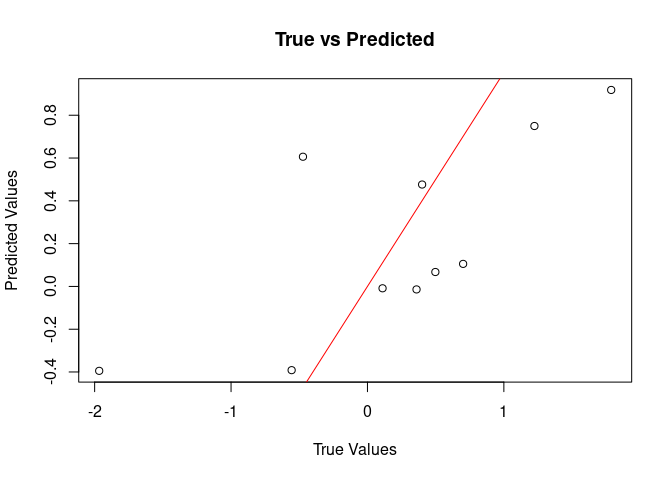
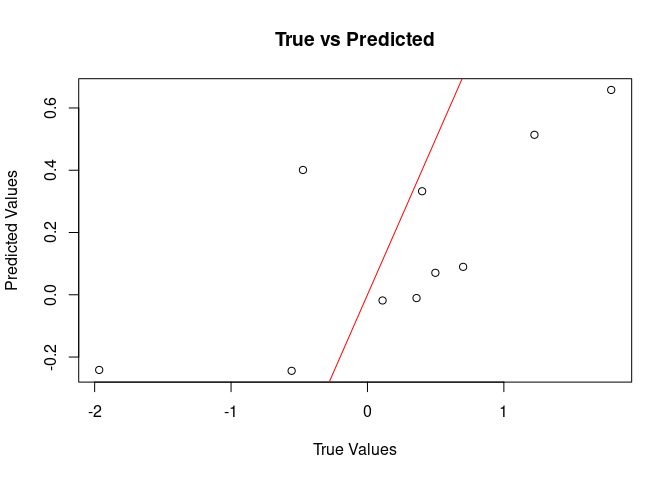
improved documentation

diff --git a/README.md b/README.md
@@ -42,17 +42,16 @@ if (!requireNamespace("devtools", quietly = TRUE)) {
 
 # Install bnns
 devtools::install_github("swarnendu-stat/bnns")
-#> Using GitHub PAT from the git credential store.
 #> Downloading GitHub repo swarnendu-stat/bnns@HEAD
 #> 
 #> ── R CMD build ─────────────────────────────────────────────────────────────────
-#> * checking for file ‘/tmp/Rtmps6cvwK/remotes1e2c655731f5/swarnendu-stat-bnns-702d66b/DESCRIPTION’ ... OK
+#> * checking for file ‘/tmp/RtmpgvV5Q7/remotes48b44bfa1ebc/swarnendu-stat-bnns-0016962/DESCRIPTION’ ... OK
 #> * preparing ‘bnns’:
 #> * checking DESCRIPTION meta-information ... OK
 #> * checking for LF line-endings in source and make files and shell scripts
 #> * checking for empty or unneeded directories
 #> * building ‘bnns_0.0.0.9000.tar.gz’
-#> Installing package into '/tmp/RtmpxVcMwf/temp_libpath11ad5b82055f'
+#> Installing package into '/tmp/RtmpW93M6f/temp_libpath307148b7ac00'
 #> (as 'lib' is unspecified)
 ```
 
@@ -75,7 +74,7 @@ To fit a Bayesian Neural Network:
 library(bnns)
 
 model <- bnns(y ~ -1 + x1 + x2, data = df, L = 2, nodes = c(10, 8), act_fn = c(2, 3), out_act_fn = 1,
-              iter = 2e2, warmup = 1e2, chains = 1, seed = 123)
+              iter = 1e2, warmup = 5e1, chains = 1, seed = 123)
 #> 
 #> TRANSLATING MODEL '' FROM Stan CODE TO C++ CODE NOW.
 #> OS: x86_64, linux-gnu; rstan: 2.32.6; Rcpp: 1.0.13.1; inline: 0.3.20 
@@ -101,7 +100,7 @@ model <- bnns(y ~ -1 + x1 + x2, data = df, L = 2, nodes = c(10, 8), act_fn = c(2
 #>   15 : #endif
 #>   16 : // Code generated by stanc v2.32.2
 #>   17 : #include <stan/model/model_header.hpp>
-#>   18 : namespace model1e2c7d5e21d6__namespace {
+#>   18 : namespace model48b46b43cf8b__namespace {
 #>   19 : using stan::model::model_base_crtp;
 #>   20 : using namespace stan::math;
 #>   21 : stan::math::profile_map profiles__;
@@ -172,7 +171,7 @@ model <- bnns(y ~ -1 + x1 + x2, data = df, L = 2, nodes = c(10, 8), act_fn = c(2
 #>   86 :   " (in 'anon_model', line 23, column 9 to column 10)",
 #>   87 :   " (in 'anon_model', line 23, column 12 to column 20)",
 #>   88 :   " (in 'anon_model', line 24, column 9 to column 10)"};
-#>   89 : class model1e2c7d5e21d6_ final : public model_base_crtp<model1e2c7d5e21d6_> {
+#>   89 : class model48b46b43cf8b_ final : public model_base_crtp<model48b46b43cf8b_> {
 #>   90 : private:
 #>   91 :   int n;
 #>   92 :   int m;
@@ -194,8 +193,8 @@ model <- bnns(y ~ -1 + x1 + x2, data = df, L = 2, nodes = c(10, 8), act_fn = c(2
 #>  108 :   Eigen::Map<Eigen::Matrix<double,-1,-1>> X{nullptr, 0, 0};
 #>  109 :   Eigen::Map<Eigen::Matrix<double,-1,1>> y{nullptr, 0};
 #>  110 : public:
-#>  111 :   ~model1e2c7d5e21d6_() {}
-#>  112 :   model1e2c7d5e21d6_(stan::io::var_context& context__, unsigned int
+#>  111 :   ~model48b46b43cf8b_() {}
+#>  112 :   model48b46b43cf8b_(stan::io::var_context& context__, unsigned int
 #>  113 :                      random_seed__ = 0, std::ostream* pstream__ = nullptr)
 #>  114 :       : model_base_crtp(0) {
 #>  115 :     int current_statement__ = 0;
@@ -205,7 +204,7 @@ model <- bnns(y ~ -1 + x1 + x2, data = df, L = 2, nodes = c(10, 8), act_fn = c(2
 #>  119 :     // suppress unused var warning
 #>  120 :     (void) base_rng__;
 #>  121 :     static constexpr const char* function__ =
-#>  122 :       "model1e2c7d5e21d6__namespace::model1e2c7d5e21d6_";
+#>  122 :       "model48b46b43cf8b__namespace::model48b46b43cf8b_";
 #>  123 :     // suppress unused var warning
 #>  124 :     (void) function__;
 #>  125 :     local_scalar_t__ DUMMY_VAR__(std::numeric_limits<double>::quiet_NaN());
@@ -400,7 +399,7 @@ model <- bnns(y ~ -1 + x1 + x2, data = df, L = 2, nodes = c(10, 8), act_fn = c(2
 #>  314 :       b2_1dim__ + w_out_1dim__ + 1 + 1;
 #>  315 :   }
 #>  316 :   inline std::string model_name() const final {
-#>  317 :     return "model1e2c7d5e21d6_";
+#>  317 :     return "model48b46b43cf8b_";
 #>  318 :   }
 #>  319 :   inline std::vector<std::string> model_compile_info() const noexcept {
 #>  320 :     return std::vector<std::string>{"stanc_version = stanc3 v2.32.2",
@@ -422,7 +421,7 @@ model <- bnns(y ~ -1 + x1 + x2, data = df, L = 2, nodes = c(10, 8), act_fn = c(2
 #>  336 :     // suppress unused var warning
 #>  337 :     (void) DUMMY_VAR__;
 #>  338 :     static constexpr const char* function__ =
-#>  339 :       "model1e2c7d5e21d6__namespace::log_prob";
+#>  339 :       "model48b46b43cf8b__namespace::log_prob";
 #>  340 :     // suppress unused var warning
 #>  341 :     (void) function__;
 #>  342 :     try {
@@ -610,7 +609,7 @@ model <- bnns(y ~ -1 + x1 + x2, data = df, L = 2, nodes = c(10, 8), act_fn = c(2
 #>  524 :     (void) DUMMY_VAR__;
 #>  525 :     constexpr bool jacobian__ = false;
 #>  526 :     static constexpr const char* function__ =
-#>  527 :       "model1e2c7d5e21d6__namespace::write_array";
+#>  527 :       "model48b46b43cf8b__namespace::write_array";
 #>  528 :     // suppress unused var warning
 #>  529 :     (void) function__;
 #>  530 :     try {
@@ -1253,7 +1252,7 @@ model <- bnns(y ~ -1 + x1 + x2, data = df, L = 2, nodes = c(10, 8), act_fn = c(2
 #> 1167 :   }
 #> 1168 : };
 #> 1169 : }
-#> 1170 : using stan_model = model1e2c7d5e21d6__namespace::model1e2c7d5e21d6_;
+#> 1170 : using stan_model = model48b46b43cf8b__namespace::model48b46b43cf8b_;
 #> 1171 : #ifndef USING_R
 #> 1172 : // Boilerplate
 #> 1173 : stan::model::model_base&
@@ -1263,14 +1262,14 @@ model <- bnns(y ~ -1 + x1 + x2, data = df, L = 2, nodes = c(10, 8), act_fn = c(2
 #> 1177 :   return *m;
 #> 1178 : }
 #> 1179 : stan::math::profile_map& get_stan_profile_data() {
-#> 1180 :   return model1e2c7d5e21d6__namespace::profiles__;
+#> 1180 :   return model48b46b43cf8b__namespace::profiles__;
 #> 1181 : }
 #> 1182 : #endif
 #> 1183 : #endif
 #> 1184 : 
-#> 1185 : RCPP_MODULE(stan_fit4model1e2c7d5e21d6__mod) {
+#> 1185 : RCPP_MODULE(stan_fit4model48b46b43cf8b__mod) {
 #> 1186 :   class_<rstan::stan_fit<stan_model, boost::random::ecuyer1988> >(
-#> 1187 :       "stan_fit4model1e2c7d5e21d6_")
+#> 1187 :       "stan_fit4model48b46b43cf8b_")
 #> 1188 : 
 #> 1189 :       .constructor<SEXP, SEXP, SEXP>()
 #> 1190 : 
@@ -1329,11 +1328,11 @@ model <- bnns(y ~ -1 + x1 + x2, data = df, L = 2, nodes = c(10, 8), act_fn = c(2
 #> 1243 : 
 #> 1244 : // declarations
 #> 1245 : extern "C" {
-#> 1246 : SEXP file1e2c6a949e8b( ) ;
+#> 1246 : SEXP file48b451d039f9( ) ;
 #> 1247 : }
 #> 1248 : 
 #> 1249 : // definition
-#> 1250 : SEXP file1e2c6a949e8b() {
+#> 1250 : SEXP file48b451d039f9() {
 #> 1251 :  return Rcpp::wrap("anon_model");
 #> 1252 : }
 #> 
@@ -1352,7 +1351,7 @@ Summarize the fitted model:
 summary(model)
 #> Call:
 #> bnns.default(formula = y ~ -1 + x1 + x2, data = df, L = 2, nodes = c(10, 
-#>     8), act_fn = c(2, 3), out_act_fn = 1, iter = 200, warmup = 100, 
+#>     8), act_fn = c(2, 3), out_act_fn = 1, iter = 100, warmup = 50, 
 #>     chains = 1, seed = 123)
 #> 
 #> Data Summary:
@@ -1366,38 +1365,38 @@ summary(model)
 #> Output activation function: 1 
 #> 
 #> Posterior Summary (Key Parameters):
-#>                  mean    se_mean        sd       2.5%        25%         50%
-#> w_out[1] -0.162133579 0.07772327 1.0991730 -2.1116312 -0.9390165 -0.03503437
-#> w_out[2]  0.021418667 0.07437495 0.9896028 -2.1611520 -0.6301115  0.06866878
-#> w_out[3] -0.002041538 0.09523759 1.1020433 -2.0465230 -0.8329012  0.04072538
-#> w_out[4] -0.091509264 0.10415390 0.9905132 -2.2855084 -0.7830352  0.03058487
-#> w_out[5] -0.126991909 0.12060092 1.0728276 -1.9425644 -0.8530244 -0.35810172
-#> w_out[6]  0.183296279 0.10112087 0.9626945 -1.5855053 -0.5166333  0.12032066
-#> w_out[7]  0.122926494 0.10005766 0.9263347 -1.5887060 -0.4925761  0.18989083
-#> w_out[8]  0.026961513 0.10391497 1.0235879 -2.1473055 -0.6427260  0.09473320
-#> b_out    -0.004724008 0.08919397 0.9390003 -1.7917247 -0.6540982  0.03236448
-#> sigma     0.931829325 0.03158302 0.2479854  0.5805703  0.7514319  0.86695836
-#>                75%    97.5%     n_eff      Rhat
-#> w_out[1] 0.5794187 2.234899 200.00000 0.9929056
-#> w_out[2] 0.5889855 1.849656 177.03880 0.9965019
-#> w_out[3] 0.8200063 1.954492 133.89998 0.9980318
-#> w_out[4] 0.6982179 1.375559  90.44186 0.9938695
-#> w_out[5] 0.6756810 2.170041  79.13319 0.9901413
-#> w_out[6] 0.9867396 1.857302  90.63490 1.0221722
-#> w_out[7] 0.7441406 1.637340  85.71073 1.0042971
-#> w_out[8] 0.7741426 1.921367  97.02732 0.9911107
-#> b_out    0.5800429 1.731874 110.83081 0.9937312
-#> sigma    1.0919060 1.500315  61.65167 1.0428953
+#>                 mean    se_mean        sd       2.5%        25%         50%
+#> w_out[1] -0.02324795 0.13129860 1.0762213 -1.6600031 -1.0103546 -0.18735995
+#> w_out[2]  0.07270977 0.14981448 0.8350675 -1.3137496 -0.4830793 -0.06217806
+#> w_out[3]  0.11283857 0.11428048 0.7623686 -1.0485410 -0.5333280  0.08261137
+#> w_out[4]  0.20054171 0.11334737 0.7588289 -1.2580135 -0.2220071  0.16581899
+#> w_out[5] -0.06208152 0.16932869 1.0527341 -1.8664903 -0.9103519  0.06347047
+#> w_out[6]  0.30302264 0.15389760 1.0756999 -1.6702569 -0.4103843  0.19989870
+#> w_out[7]  0.30786594 0.11187634 0.8229034 -1.0878378 -0.3385778  0.32939318
+#> w_out[8] -0.15144312 0.12836466 0.9245842 -1.7927356 -0.6969301 -0.20455107
+#> b_out     0.24797547 0.13604812 0.9077106 -1.5935206 -0.4190687  0.23167117
+#> sigma     0.95245930 0.04625639 0.3037826  0.5781807  0.7346287  0.92544357
+#>                75%    97.5%    n_eff      Rhat
+#> w_out[1] 0.7441097 1.840549 67.18664 0.9865655
+#> w_out[2] 0.7052703 1.624580 31.06960 0.9923414
+#> w_out[3] 0.7150443 1.618166 44.50265 1.0045883
+#> w_out[4] 0.7419605 1.455819 44.81927 0.9798358
+#> w_out[5] 0.6306202 1.720851 38.65238 0.9824005
+#> w_out[6] 1.0225610 2.465771 48.85607 1.0054149
+#> w_out[7] 0.9952039 1.614277 54.10299 0.9812693
+#> w_out[8] 0.3860326 1.242786 51.88024 0.9814778
+#> b_out    0.9793195 1.889829 44.51535 0.9851646
+#> sigma    1.0812277 1.639066 43.13027 0.9828852
 #> 
 #> Model Fit Information:
-#> Iterations: 200 
-#> Warmup: 100 
+#> Iterations: 100 
+#> Warmup: 50 
 #> Thinning: 1 
 #> Chains: 1 
 #> 
 #> Predictive Performance:
-#> RMSE (training): 0.730921 
-#> MAE (training): 0.5753889 
+#> RMSE (training): 0.7956568 
+#> MAE (training): 0.6356295 
 #> 
 #> Notes:
 #> Check convergence diagnostics for parameters with high R-hat values.
@@ -1439,7 +1438,7 @@ For binary or multiclass classification, set the `out_act_fn` to `2`
 df <- data.frame(x1 = runif(10), x2 = runif(10), y = sample(0:1, 10, replace = TRUE))
 
 # Fit a binary classification BNN
-model <- bnns(y ~ -1 + x1 + x2, data = df, L = 2, nodes = c(16, 8), act_fn = c(3, 2), out_act_fn = 2, iter = 2e2, warmup = 1e2, chains = 1)
+model <- bnns(y ~ -1 + x1 + x2, data = df, L = 2, nodes = c(16, 8), act_fn = c(3, 2), out_act_fn = 2, iter = 1e2, warmup = 5e1, chains = 1)
 #> 
 #> TRANSLATING MODEL '' FROM Stan CODE TO C++ CODE NOW.
 #> OS: x86_64, linux-gnu; rstan: 2.32.6; Rcpp: 1.0.13.1; inline: 0.3.20 
@@ -1465,7 +1464,7 @@ model <- bnns(y ~ -1 + x1 + x2, data = df, L = 2, nodes = c(16, 8), act_fn = c(3
 #>   15 : #endif
 #>   16 : // Code generated by stanc v2.32.2
 #>   17 : #include <stan/model/model_header.hpp>
-#>   18 : namespace model1e2c2225adb0__namespace {
+#>   18 : namespace model48b414b76d38__namespace {
 #>   19 : using stan::model::model_base_crtp;
 #>   20 : using namespace stan::math;
 #>   21 : stan::math::profile_map profiles__;
@@ -1534,7 +1533,7 @@ model <- bnns(y ~ -1 + x1 + x2, data = df, L = 2, nodes = c(16, 8), act_fn = c(3
 #>   84 :   " (in 'anon_model', line 22, column 9 to column 10)",
 #>   85 :   " (in 'anon_model', line 22, column 12 to column 20)",
 #>   86 :   " (in 'anon_model', line 23, column 9 to column 10)"};
-#>   87 : class model1e2c2225adb0_ final : public model_base_crtp<model1e2c2225adb0_> {
+#>   87 : class model48b414b76d38_ final : public model_base_crtp<model48b414b76d38_> {
 #>   88 : private:
 #>   89 :   int n;
 #>   90 :   int m;
@@ -1555,8 +1554,8 @@ model <- bnns(y ~ -1 + x1 + x2, data = df, L = 2, nodes = c(16, 8), act_fn = c(3
 #>  105 :   int a2_2dim__;
 #>  106 :   Eigen::Map<Eigen::Matrix<double,-1,-1>> X{nullptr, 0, 0};
 #>  107 : public:
-#>  108 :   ~model1e2c2225adb0_() {}
-#>  109 :   model1e2c2225adb0_(stan::io::var_context& context__, unsigned int
+#>  108 :   ~model48b414b76d38_() {}
+#>  109 :   model48b414b76d38_(stan::io::var_context& context__, unsigned int
 #>  110 :                      random_seed__ = 0, std::ostream* pstream__ = nullptr)
 #>  111 :       : model_base_crtp(0) {
 #>  112 :     int current_statement__ = 0;
@@ -1566,7 +1565,7 @@ model <- bnns(y ~ -1 + x1 + x2, data = df, L = 2, nodes = c(16, 8), act_fn = c(3
 #>  116 :     // suppress unused var warning
 #>  117 :     (void) base_rng__;
 #>  118 :     static constexpr const char* function__ =
-#>  119 :       "model1e2c2225adb0__namespace::model1e2c2225adb0_";
+#>  119 :       "model48b414b76d38__namespace::model48b414b76d38_";
 #>  120 :     // suppress unused var warning
 #>  121 :     (void) function__;
 #>  122 :     local_scalar_t__ DUMMY_VAR__(std::numeric_limits<double>::quiet_NaN());
@@ -1750,7 +1749,7 @@ model <- bnns(y ~ -1 + x1 + x2, data = df, L = 2, nodes = c(16, 8), act_fn = c(3
 #>  300 :       b2_1dim__ + w_out_1dim__ + 1;
 #>  301 :   }
 #>  302 :   inline std::string model_name() const final {
-#>  303 :     return "model1e2c2225adb0_";
+#>  303 :     return "model48b414b76d38_";
 #>  304 :   }
 #>  305 :   inline std::vector<std::string> model_compile_info() const noexcept {
 #>  306 :     return std::vector<std::string>{"stanc_version = stanc3 v2.32.2",
@@ -1772,7 +1771,7 @@ model <- bnns(y ~ -1 + x1 + x2, data = df, L = 2, nodes = c(16, 8), act_fn = c(3
 #>  322 :     // suppress unused var warning
 #>  323 :     (void) DUMMY_VAR__;
 #>  324 :     static constexpr const char* function__ =
-#>  325 :       "model1e2c2225adb0__namespace::log_prob";
+#>  325 :       "model48b414b76d38__namespace::log_prob";
 #>  326 :     // suppress unused var warning
 #>  327 :     (void) function__;
 #>  328 :     try {
@@ -1954,7 +1953,7 @@ model <- bnns(y ~ -1 + x1 + x2, data = df, L = 2, nodes = c(16, 8), act_fn = c(3
 #>  504 :     (void) DUMMY_VAR__;
 #>  505 :     constexpr bool jacobian__ = false;
 #>  506 :     static constexpr const char* function__ =
-#>  507 :       "model1e2c2225adb0__namespace::write_array";
+#>  507 :       "model48b414b76d38__namespace::write_array";
 #>  508 :     // suppress unused var warning
 #>  509 :     (void) function__;
 #>  510 :     try {
@@ -2579,7 +2578,7 @@ model <- bnns(y ~ -1 + x1 + x2, data = df, L = 2, nodes = c(16, 8), act_fn = c(3
 #> 1129 :   }
 #> 1130 : };
 #> 1131 : }
-#> 1132 : using stan_model = model1e2c2225adb0__namespace::model1e2c2225adb0_;
+#> 1132 : using stan_model = model48b414b76d38__namespace::model48b414b76d38_;
 #> 1133 : #ifndef USING_R
 #> 1134 : // Boilerplate
 #> 1135 : stan::model::model_base&
@@ -2589,14 +2588,14 @@ model <- bnns(y ~ -1 + x1 + x2, data = df, L = 2, nodes = c(16, 8), act_fn = c(3
 #> 1139 :   return *m;
 #> 1140 : }
 #> 1141 : stan::math::profile_map& get_stan_profile_data() {
-#> 1142 :   return model1e2c2225adb0__namespace::profiles__;
+#> 1142 :   return model48b414b76d38__namespace::profiles__;
 #> 1143 : }
 #> 1144 : #endif
 #> 1145 : #endif
 #> 1146 : 
-#> 1147 : RCPP_MODULE(stan_fit4model1e2c2225adb0__mod) {
+#> 1147 : RCPP_MODULE(stan_fit4model48b414b76d38__mod) {
 #> 1148 :   class_<rstan::stan_fit<stan_model, boost::random::ecuyer1988> >(
-#> 1149 :       "stan_fit4model1e2c2225adb0_")
+#> 1149 :       "stan_fit4model48b414b76d38_")
 #> 1150 : 
 #> 1151 :       .constructor<SEXP, SEXP, SEXP>()
 #> 1152 : 
@@ -2655,11 +2654,11 @@ model <- bnns(y ~ -1 + x1 + x2, data = df, L = 2, nodes = c(16, 8), act_fn = c(3
 #> 1205 : 
 #> 1206 : // declarations
 #> 1207 : extern "C" {
-#> 1208 : SEXP file1e2c2f54d3a2( ) ;
+#> 1208 : SEXP file48b44a106991( ) ;
 #> 1209 : }
 #> 1210 : 
 #> 1211 : // definition
-#> 1212 : SEXP file1e2c2f54d3a2() {
+#> 1212 : SEXP file48b44a106991() {
 #> 1213 :  return Rcpp::wrap("anon_model");
 #> 1214 : }
 #> 
